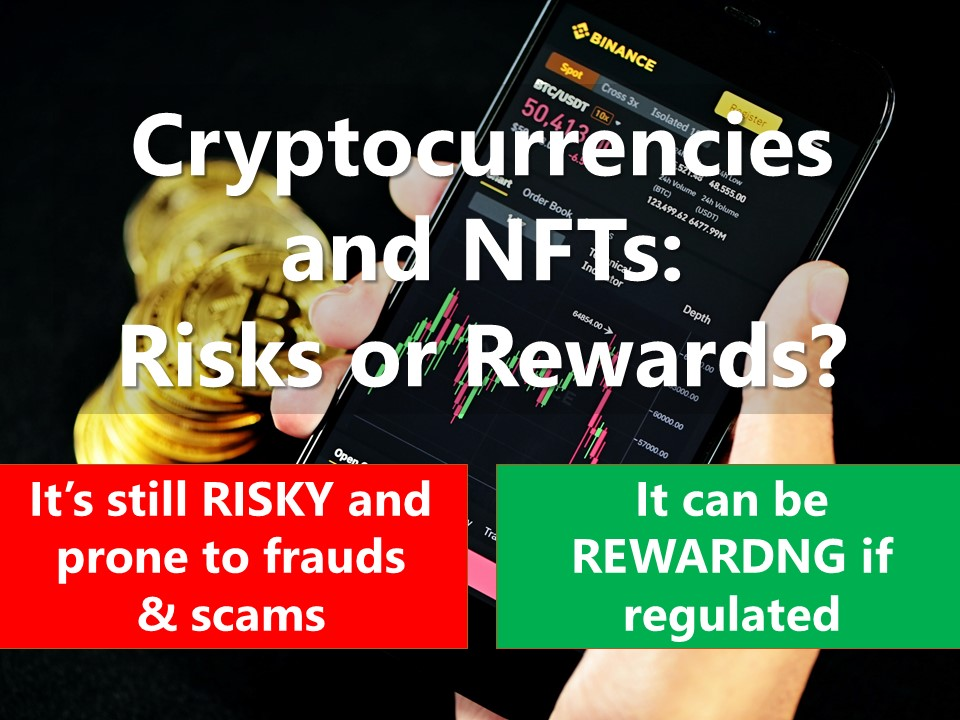
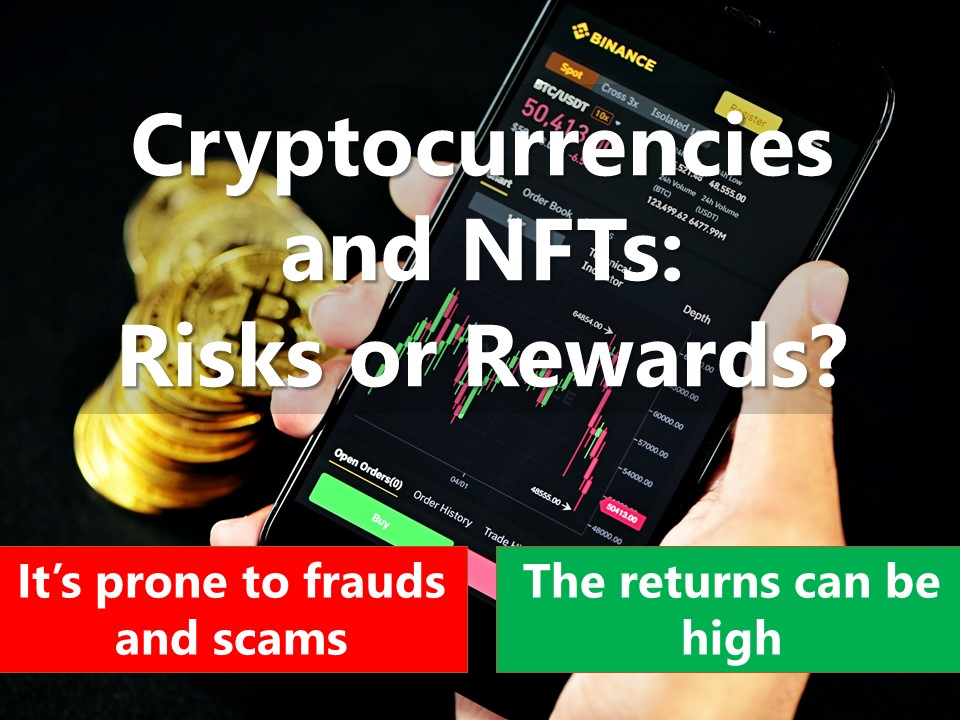
RTBS3 R2

Changed region(s): [[0.0, 0.6417, 1.0, 0.9472]]

diff --git a/_read-to-be-sure/3a-rtbs03-overview.md b/_read-to-be-sure/3a-rtbs03-overview.md
@@ -11,8 +11,8 @@ third_nav_title: 'Issue #3: Cryptocurrencies and NFTs: Risks or Rewards?'
 <table border="0" cellpadding="50">
 	<tbody>
    <tr>
-    <th>IT’S STILL RISKY AND PRONE TO FRAUDS & SCAMS</th>
-    <th>IT CAN BE REWARDNG IF REGULATED</th>
+    <th>IT’S STILL RISKY AND PRONE TO FRAUDS AND SCAMS</th>
+    <th>IT CAN BE REWARDNG AS THE RETURNS CAN BE HIGH</th>
   </tr>
         <tr>
             <td style="width: 50%;">Cryptocurrencies are not regulated by the Monetary Authority of Singapore (MAS) as they are not legal tender. There are risks involved, such as frauds and scams, the lack of transparency and being misused to fund illegal activities.
